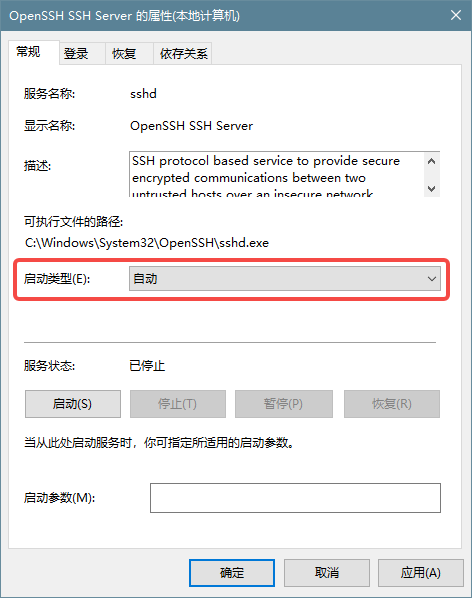
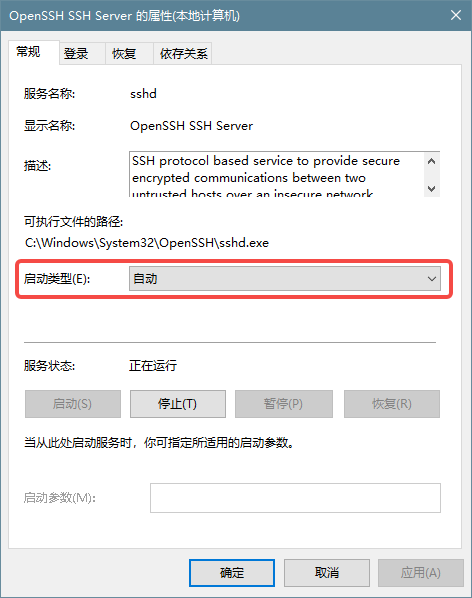
update

diff --git a/_posts/配置 Windows 为 SSH 跳板机.md b/_posts/配置 Windows 为 SSH 跳板机.md
@@ -227,7 +227,7 @@ Last login: Mon Apr 10 20:36:55 2023 from 192.168.80.1
 
 找到 OpenSSH SSH Server 项，右键选择“属性”：
 
-![打开 OpenSSH SSH Server 的属性](https://gukaifeng.cn/posts/pei-zhi-windows-wei-ssh-tiao-ban-ji/pei-zhi-windows-wei-ssh-tiao-ban-ji_7.png)
+![打开 “OpenSSH SSH Server” 的属性](https://gukaifeng.cn/posts/pei-zhi-windows-wei-ssh-tiao-ban-ji/pei-zhi-windows-wei-ssh-tiao-ban-ji_7.png)
 
 注意这里 SSH 服务得是“正在运行”的状态。重启 Windows 前 SSH 服务正在运行，下面设置自启后才会自启。如果重启 Windows 前 SSH 服务是停止状态，那么即便配置了自启，也不会生效。
 
@@ -249,19 +249,33 @@ Last login: Mon Apr 10 20:36:55 2023 from 192.168.80.1
 
 我这里以 VMware Workstation 17.0.0 Pro 为例。
 
-**Step 1：**以**管理员身份**启动 VMware，以**管理员身份**启动 VMware，以**管理员身份**启动 VMware。
+**Step 1：**再次打开“服务”，找到 “VMware 自动启动服务”，点击左边的“启动”：
+
+![启动 “VMware 自动启动服务”](https://gukaifeng.cn/posts/pei-zhi-windows-wei-ssh-tiao-ban-ji/pei-zhi-windows-wei-ssh-tiao-ban-ji_9.png)
+
+**Step 2：**打开 “VMware 自动启动服务” 属性：
+
+![打开 “VMware 自动启动服务” 的属性](https://gukaifeng.cn/posts/pei-zhi-windows-wei-ssh-tiao-ban-ji/pei-zhi-windows-wei-ssh-tiao-ban-ji_10.png)
+
+**Step 3：**选择“启动类型”为“自动”
+
+![选择“启动类型”为“自动”](https://gukaifeng.cn/posts/pei-zhi-windows-wei-ssh-tiao-ban-ji/pei-zhi-windows-wei-ssh-tiao-ban-ji_11.png)
+
+注意配置这里时同样 VMware 自动启动服务 得是“正在运行”的状态。
+
+
+
+**Step 4：**以**管理员身份**启动 VMware，以**管理员身份**启动 VMware，以**管理员身份**启动 VMware。
 
 如果不是管理员的话会有权限问题，也只有配置虚拟机开机自启的时候需要以管理员身份启动，后面正常使用就不需要了。
 
-**Step 2：**选择“文件” -> “配置自动启动虚拟机”：
+**Step 5：**选择“文件” -> “配置自动启动虚拟机”：
 
-![配置自动启动虚拟机](https://gukaifeng.cn/posts/pei-zhi-windows-wei-ssh-tiao-ban-ji/pei-zhi-windows-wei-ssh-tiao-ban-ji_9.png)
+![配置自动启动虚拟机](https://gukaifeng.cn/posts/pei-zhi-windows-wei-ssh-tiao-ban-ji/pei-zhi-windows-wei-ssh-tiao-ban-ji_12.png)
 
-**Step 3：** 给我们要设置自启的虚拟机的 “自动启动” 下面打勾：
+**Step 6：** 给我们要设置自启的虚拟机的 “自动启动” 下面打勾：
 
-![“自动启动” 下面打勾](https://gukaifeng.cn/posts/pei-zhi-windows-wei-ssh-tiao-ban-ji/pei-zhi-windows-wei-ssh-tiao-ban-ji_10.png)
-
-
+![“自动启动” 下面打勾](https://gukaifeng.cn/posts/pei-zhi-windows-wei-ssh-tiao-ban-ji/pei-zhi-windows-wei-ssh-tiao-ban-ji_13.png)
 
 如果你有多个虚拟机要自启，可以设置下右边的“启动顺序”，我这里就这一个，就不演示了。
 
